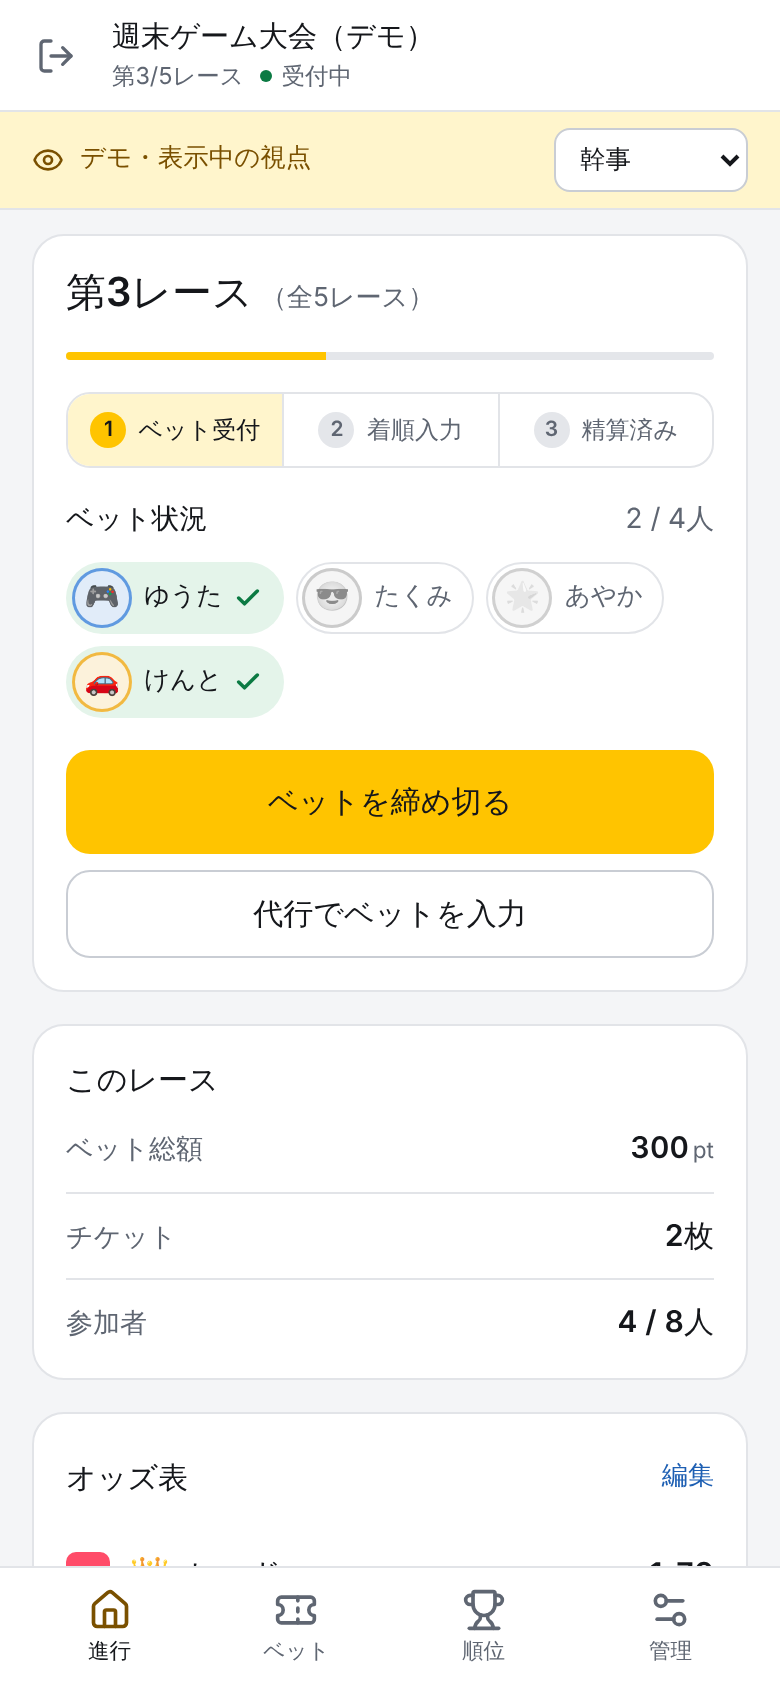
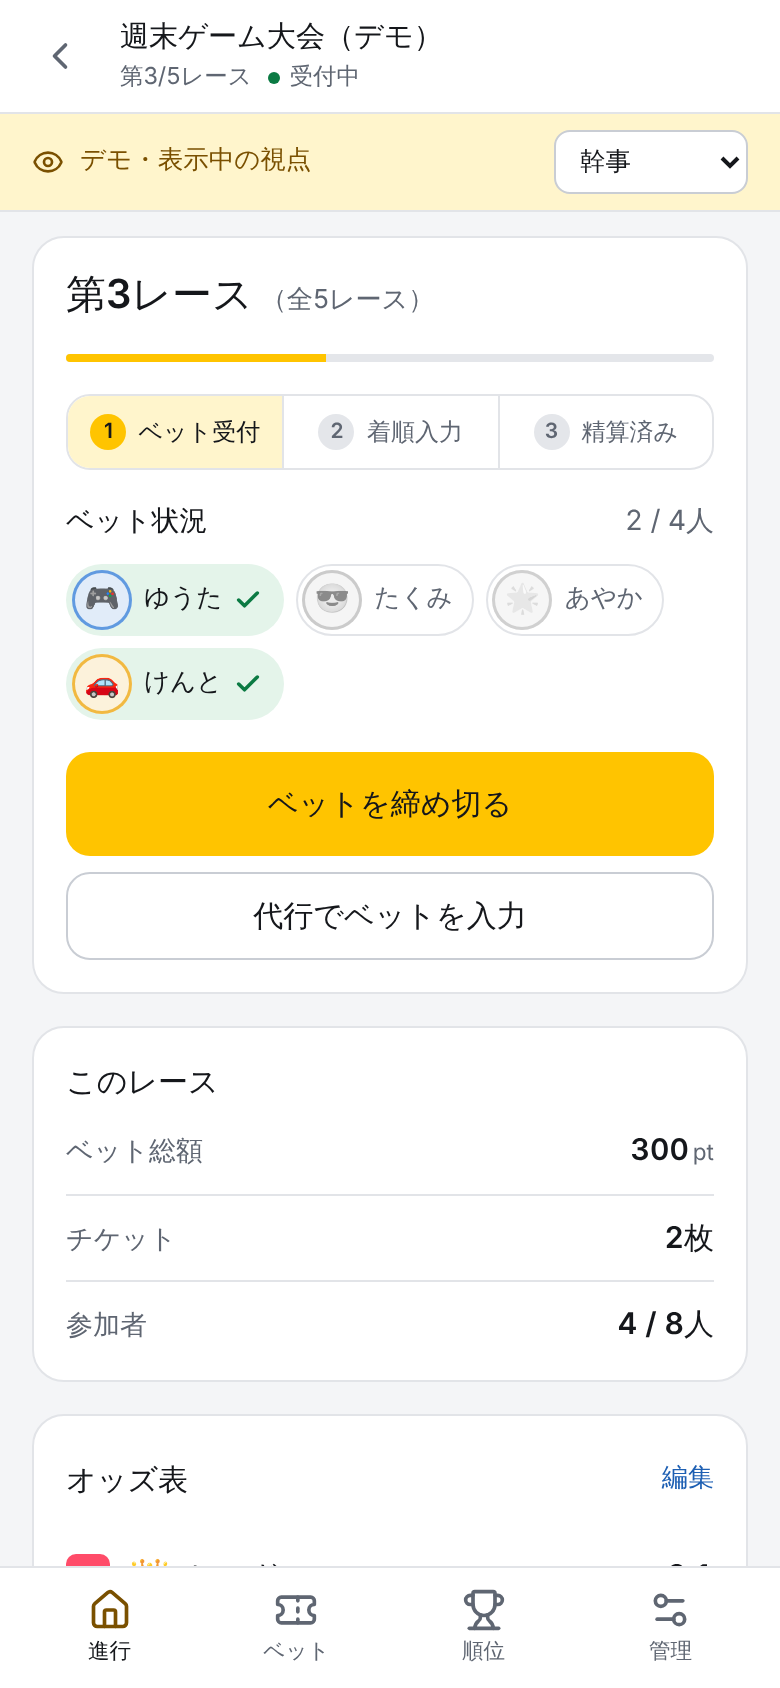
Tidy page headers and result captions
- Sub-pages now use the same plain chevron as the room bar instead of a
  boxed arrow, and header actions use the quiet icon style.
- Final results had a share icon in the header and a share button at the
  bottom; keep the button.
- "Hit" and "1st" captions on tinted cards lined up with nothing; drop
  the badge padding there so they align with the text below.
- The standings no longer repeat "bets via host" under each name.
- Screenshot script: settle the layout before full-page captures.

Claude-Session: https://claude.ai/code/session_01YNnn38HFnbdojExXXX8Xbv

diff --git a/src/components/ui.tsx b/src/components/ui.tsx
@@ -1,6 +1,6 @@
 import { useId } from "react";
 import type { CSSProperties, ReactNode } from "react";
-import { ArrowLeft, Minus, Plus } from "lucide-react";
+import { ChevronLeft, Minus, Plus } from "lucide-react";
 import { useI18n } from "../i18n/i18n";
 import { EMOJI_CHOICES } from "../lib/constants";
 
@@ -52,8 +52,13 @@ export function PageHeader(props: {
   return (
     <header className="page-header">
       {props.onBack && (
-        <button className="icon-button" type="button" onClick={props.onBack} aria-label={t("戻る", "Back")}>
-          <ArrowLeft size={22} />
+        <button
+          className="icon-button icon-button--quiet page-header__back"
+          type="button"
+          onClick={props.onBack}
+          aria-label={t("戻る", "Back")}
+        >
+          <ChevronLeft size={24} />
         </button>
       )}
       <div className="page-header__title">

diff --git a/src/screens/room/FinalScreen.tsx b/src/screens/room/FinalScreen.tsx
@@ -1,4 +1,3 @@
-import { Share2 } from "lucide-react";
 import { BalanceChart } from "../../components/BalanceChart";
 import { useNotify } from "../../components/feedback";
 import { Avatar, Points, PageHeader, RankBadge } from "../../components/ui";
@@ -36,16 +35,6 @@ export function FinalScreen() {
         subtitle={room.name}
         onBack={
           nav.canGoBack ? nav.back : () => nav.reset({ name: controller.role === "host" ? "home" : "bet" })
-        }
-        actions={
-          <button
-            className="icon-button"
-            type="button"
-            onClick={share}
-            aria-label={t("結果を共有", "Share results")}
-          >
-            <Share2 size={18} />
-          </button>
         }
       />
 

diff --git a/src/i18n/locales/uk.ts b/src/i18n/locales/uk.ts
@@ -29,7 +29,6 @@ const messages: Record<string, string> = {
   "Bet placed": "Ставку прийнято",
   "Bet status": "Стан ставок",
   "Bet type": "Тип ставки",
-  "Bets via host": "Ставки вводить ведучий",
   Betting: "Ставки",
   "Betting closed. Waiting for the result": "Ставки закрито. Чекаємо на результат",
   "Betting closes automatically when you confirm.": "Після підтвердження ставки закриються автоматично.",

diff --git a/src/styles/screens.css b/src/styles/screens.css
@@ -1067,11 +1067,6 @@
   font-weight: 600;
 }
 
-.standings__name small {
-  color: var(--text-3);
-  font-size: 0.78rem;
-}
-
 .standings__value {
   display: grid;
   justify-items: end;
@@ -1185,6 +1180,13 @@
   display: grid;
   justify-items: start;
   gap: 2px;
+}
+
+/* On a tinted card the label reads as a caption, aligned with the name below it. */
+.champion .badge,
+.result-summary .badge {
+  padding-inline: 0;
+  background: none;
 }
 
 .champion h2 {

diff --git a/src/i18n/locales/es.ts b/src/i18n/locales/es.ts
@@ -30,7 +30,6 @@ const messages: Record<string, string> = {
   "Bet placed": "Apuesta realizada",
   "Bet status": "Estado de las apuestas",
   "Bet type": "Tipo de apuesta",
-  "Bets via host": "Apuesta a través del anfitrión",
   Betting: "Apuestas",
   "Betting closed. Waiting for the result": "Apuestas cerradas. Esperando el resultado",
   "Betting closes automatically when you confirm.": "Al confirmar, las apuestas se cerrarán automáticamente.",

diff --git a/src/i18n/locales/ko.ts b/src/i18n/locales/ko.ts
@@ -29,7 +29,6 @@ const messages: Record<string, string> = {
   "Bet placed": "베팅 완료",
   "Bet status": "베팅 현황",
   "Bet type": "베팅 종류",
-  "Bets via host": "진행자 대리 입력",
   Betting: "베팅 접수",
   "Betting closed. Waiting for the result": "베팅이 마감되었어요. 결과를 기다리고 있어요",
   "Betting closes automatically when you confirm.": "확정하면 베팅이 자동으로 마감돼요.",

diff --git a/src/screens/room/RankingScreen.tsx b/src/screens/room/RankingScreen.tsx
@@ -81,7 +81,6 @@ export function RankingScreen() {
                     {player.name}
                     {player.id === meId && <em>{t("あなた", "You")}</em>}
                   </strong>
-                  {player.isOffline && <small>{t("幹事が代行", "Bets via host")}</small>}
                 </span>
                 <span className="standings__value">
                   <Points value={player.balance} />

diff --git a/src/i18n/locales/zh.ts b/src/i18n/locales/zh.ts
@@ -27,7 +27,6 @@ const messages: Record<string, string> = {
   "Bet placed": "投注成功",
   "Bet status": "投注情况",
   "Bet type": "投注类型",
-  "Bets via host": "由主持人代投",
   Betting: "投注",
   "Betting closed. Waiting for the result": "投注已截止，等待比赛结果",
   "Betting closes automatically when you confirm.": "确认后将自动截止投注。",

diff --git a/src/i18n/locales/it.ts b/src/i18n/locales/it.ts
@@ -31,7 +31,6 @@ const messages: Record<string, string> = {
   "Bet placed": "Scommessa registrata",
   "Bet status": "Stato delle scommesse",
   "Bet type": "Tipo di scommessa",
-  "Bets via host": "Tramite l'organizzatore",
   Betting: "Scommesse",
   "Betting closed. Waiting for the result": "Scommesse chiuse. In attesa del risultato",
   "Betting closes automatically when you confirm.":

diff --git a/src/i18n/locales/fr.ts b/src/i18n/locales/fr.ts
@@ -30,7 +30,6 @@ const messages: Record<string, string> = {
   "Bet placed": "Pari enregistré",
   "Bet status": "État des paris",
   "Bet type": "Type de pari",
-  "Bets via host": "Paris saisis par l'organisateur",
   Betting: "Paris",
   "Betting closed. Waiting for the result": "Paris clos. En attente du résultat",
   "Betting closes automatically when you confirm.":

diff --git a/src/i18n/locales/de.ts b/src/i18n/locales/de.ts
@@ -30,7 +30,6 @@ const messages: Record<string, string> = {
   "Bet placed": "Wette abgegeben",
   "Bet status": "Wettstatus",
   "Bet type": "Wettart",
-  "Bets via host": "Tippt über die Spielleitung",
   Betting: "Wetten",
   "Betting closed. Waiting for the result": "Wetten geschlossen. Warten auf das Ergebnis",
   "Betting closes automatically when you confirm.":

diff --git a/src/screens/room/RaceResultScreen.tsx b/src/screens/room/RaceResultScreen.tsx
@@ -55,7 +55,7 @@ export function RaceResultScreen(props: { raceId?: string }) {
         }
         actions={
           <button
-            className="icon-button"
+            className="icon-button icon-button--quiet"
             type="button"
             onClick={share}
             aria-label={t("結果を共有", "Share result")}
